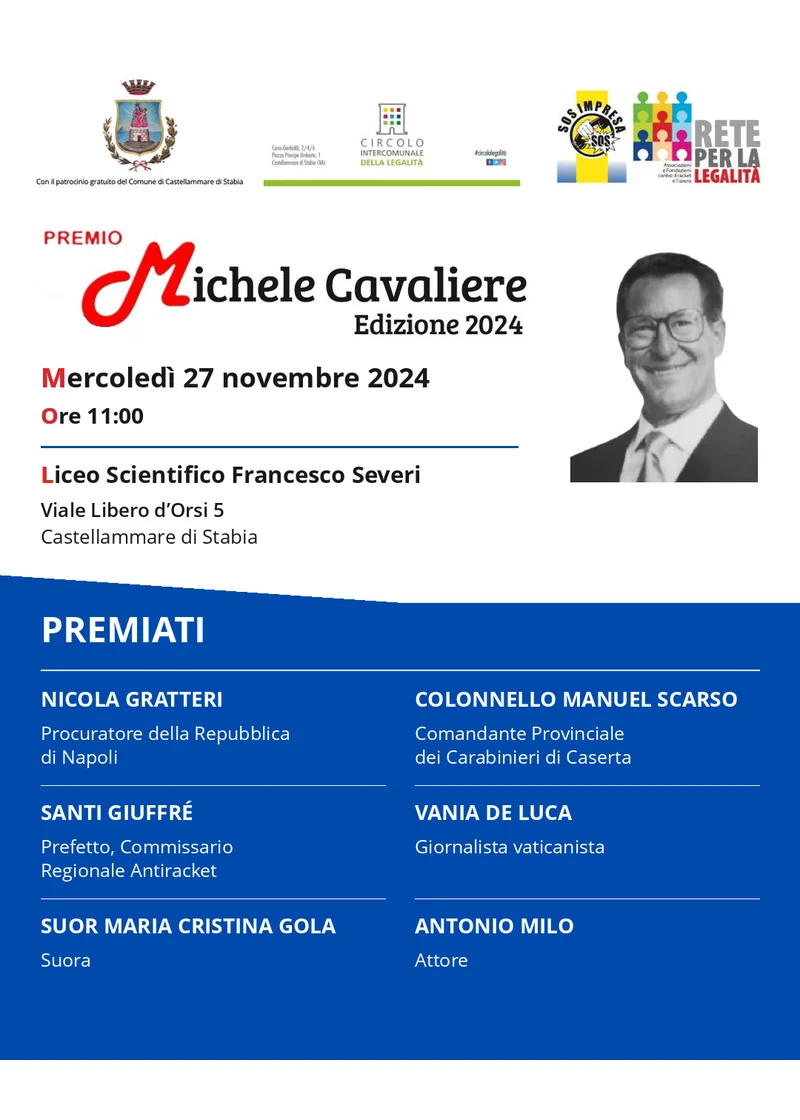
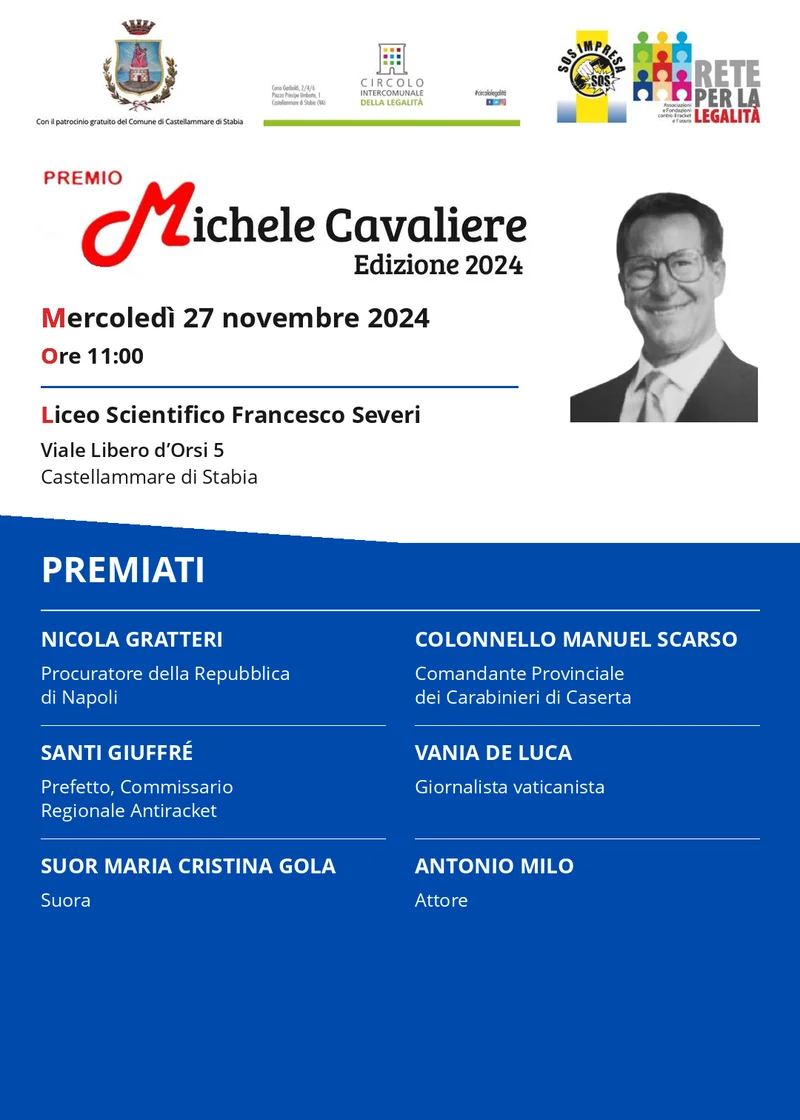
Premio: locandina della 6ª edizione con i loghi in alto e il blu fino in fondo
Claude-Session: https://claude.ai/code/session_01FP3VfcYL9npNUDL6fgdwQF

Changed region(s): [[0.0, 0.0, 1.0, 0.875], [0.6875, 0.0, 0.9688, 0.4375], [0.0, 0.9375, 1.0, 1.0]]

diff --git a/src/premio/il-premio-michele-cavaliere-giunge-alla-sua-6a-edizione.md b/src/premio/il-premio-michele-cavaliere-giunge-alla-sua-6a-edizione.md
@@ -3,7 +3,7 @@ title: Il Premio "Michele Cavaliere giunge alla 6ª edizione, scelti i nomi dei 
 edizione: 6ª edizione
 date: 2024-03-20
 image: /uploads/premio-6a-edizione-foto.webp
-locandina: /uploads/premio/locandina-6a-edizione.webp?v=2
+locandina: /uploads/premio/locandina-6a-edizione.webp?v=3
 excerpt: Cultura e impegno contro le mafie rappresentano i temi della manifestazione, giunta alla sua sesta edizione.
 ---
 
